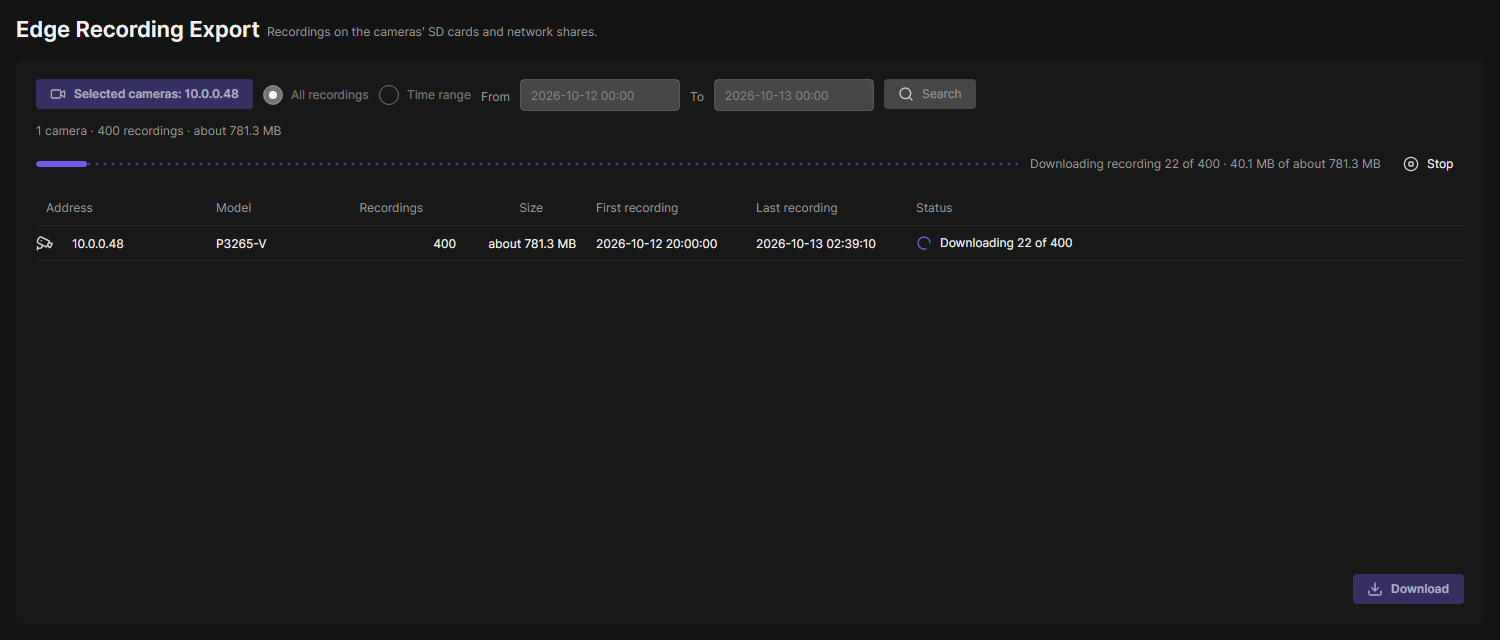
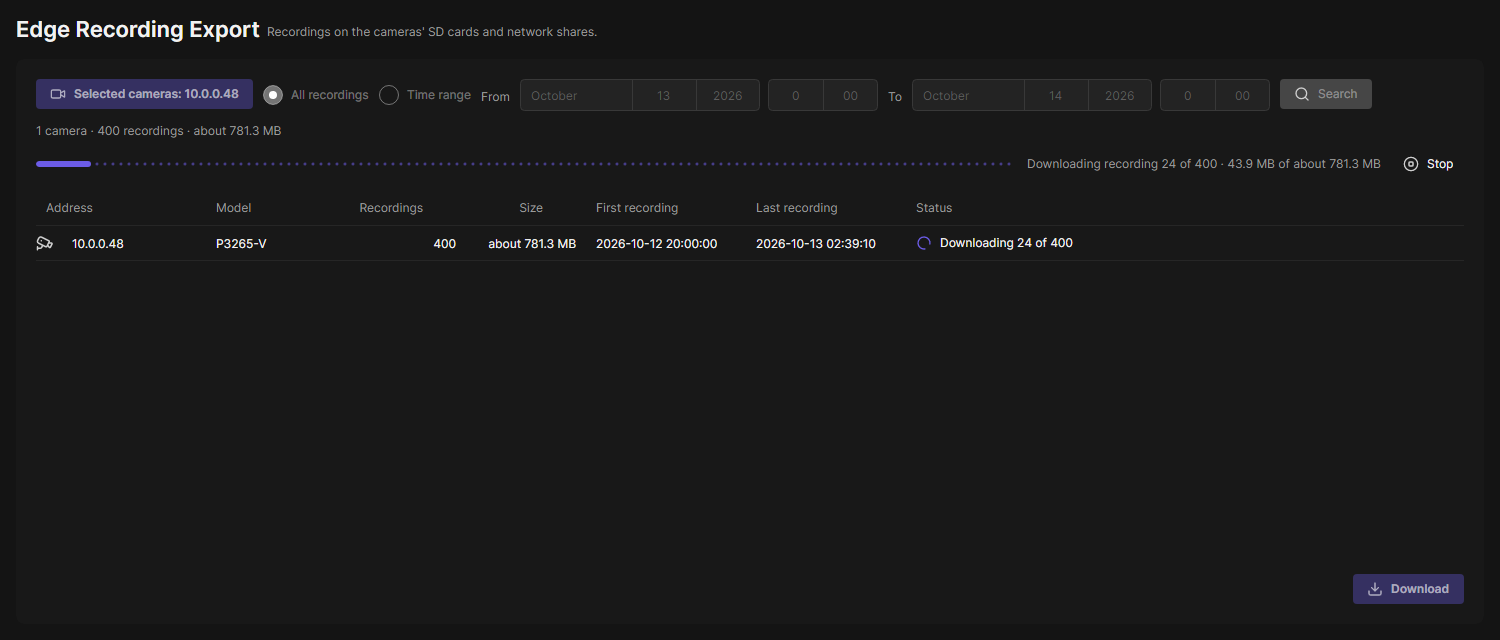
feat(edge-recording-export): date and time pickers for the range
Claude-Session: https://claude.ai/code/session_01DxqjaJMjAJLyCUSTpPxG58

diff --git a/plugins/Oadm.Plugins.EdgeRecordingExport.Client/EdgeRecordingViewModel.cs b/plugins/Oadm.Plugins.EdgeRecordingExport.Client/EdgeRecordingViewModel.cs
@@ -36,12 +36,14 @@ public sealed partial class EdgeRecordingViewModel : ValidatingViewModel, IDispo
     {
         _ctx = ctx ?? throw new ArgumentNullException(nameof(ctx));
         _ui = SynchronizationContext.Current;
-        var now = DateTime.Now;
-        StartText = now.Date.ToString(EdgeRecordingFormat.InputFormat, CultureInfo.InvariantCulture);
-        StopText = now.Date.AddDays(1).ToString(EdgeRecordingFormat.InputFormat, CultureInfo.InvariantCulture);
+        var today = new DateTimeOffset(DateTime.Today);
+        StartDate = today;
+        StartTime = TimeSpan.Zero;
+        StopDate = today.AddDays(1);
+        StopTime = TimeSpan.Zero;
         Validation
-            .Rule(nameof(StartText), () => AllRecordings ? null : EdgeRecordingFormat.ParseLocal(StartText) is null ? "Enter the start as yyyy-mm-dd hh:mm." : null)
-            .Rule(nameof(StopText), StopError);
+            .Rule(nameof(StartDate), StartError)
+            .Rule(nameof(StopDate), StopError);
         Validation.Validate();
         _ctx.PermissionsChanged += OnPermissionsChanged;
     }
@@ -69,11 +71,34 @@ public sealed partial class EdgeRecordingViewModel : ValidatingViewModel, IDispo
         set => AllRecordings = !value;
     }
 
+    /// <summary>The start day (date picker; the time of day comes from <see cref="StartTime"/>).</summary>
     [ObservableProperty]
-    public partial string StartText { get; set; }
+    public partial DateTimeOffset? StartDate { get; set; }
+
+    /// <summary>The start time of day (time picker, 24 hours).</summary>
+    [ObservableProperty]
+    public partial TimeSpan? StartTime { get; set; }
 
     [ObservableProperty]
-    public partial string StopText { get; set; }
+    public partial DateTimeOffset? StopDate { get; set; }
+
+    [ObservableProperty]
+    public partial TimeSpan? StopTime { get; set; }
+
+    /// <summary>The start in this computer's time, as UTC; null while a part is missing.</summary>
+    public DateTimeOffset? RangeStart => EdgeRecordingFormat.Combine(StartDate, StartTime);
+
+    public DateTimeOffset? RangeStop => EdgeRecordingFormat.Combine(StopDate, StopTime);
+
+    /// <summary>The visible error of the From row (below its pickers).</summary>
+    public string? StartErrorText => ErrorOf(nameof(StartDate));
+
+    public string? StopErrorText => ErrorOf(nameof(StopDate));
+
+    // A time picker belongs to the date picker of its row: the row's error shows once either was changed.
+    partial void OnStartTimeChanged(TimeSpan? value) => Validation.Touch(nameof(StartDate));
+
+    partial void OnStopTimeChanged(TimeSpan? value) => Validation.Touch(nameof(StopDate));
 
     [ObservableProperty]
     [NotifyPropertyChangedFor(nameof(IsIdle), nameof(IsBusy))]
@@ -165,7 +190,7 @@ public sealed partial class EdgeRecordingViewModel : ValidatingViewModel, IDispo
     [RelayCommand]
     private async Task SearchAsync()
     {
-        Validation.ShowAll(nameof(StartText), nameof(StopText));
+        Validation.ShowAll(nameof(StartDate), nameof(StopDate));
         if (!CanSearch)
         {
             return;
@@ -178,8 +203,8 @@ public sealed partial class EdgeRecordingViewModel : ValidatingViewModel, IDispo
             return;
         }
 
-        var start = AllRecordings ? null : EdgeRecordingFormat.ParseLocal(StartText);
-        var stop = AllRecordings ? null : EdgeRecordingFormat.ParseLocal(StopText);
+        var start = AllRecordings ? null : RangeStart;
+        var stop = AllRecordings ? null : RangeStop;
         var rows = cameras.Select(d => new CameraRowViewModel(d)).OrderBy(r => r.AddressSortKey, StringComparer.Ordinal).ToList();
         Rows.ReplaceAll(rows);
         OnPropertyChanged(nameof(ShowEmpty));
@@ -344,6 +369,8 @@ public sealed partial class EdgeRecordingViewModel : ValidatingViewModel, IDispo
     protected override void OnValidationChanged()
     {
         base.OnValidationChanged();
+        OnPropertyChanged(nameof(StartErrorText));
+        OnPropertyChanged(nameof(StopErrorText));
         RaiseCommands();
     }
 
@@ -456,6 +483,9 @@ public sealed partial class EdgeRecordingViewModel : ValidatingViewModel, IDispo
         SummaryText = text;
     }
 
+    private string? StartError() =>
+        AllRecordings ? null : StartDate is null ? "Choose the start date." : StartTime is null ? "Choose the start time." : null;
+
     private string? StopError()
     {
         if (AllRecordings)
@@ -463,12 +493,12 @@ public sealed partial class EdgeRecordingViewModel : ValidatingViewModel, IDispo
             return null;
         }
 
-        if (EdgeRecordingFormat.ParseLocal(StopText) is not { } stop)
+        if (StopDate is null || StopTime is null)
         {
-            return "Enter the stop as yyyy-mm-dd hh:mm.";
+            return StopDate is null ? "Choose the stop date." : "Choose the stop time.";
         }
 
-        return EdgeRecordingFormat.ParseLocal(StartText) is { } start && start >= stop ? "The stop must be after the start." : null;
+        return RangeStart is { } start && RangeStop is { } stop && start >= stop ? "The stop must be after the start." : null;
     }
 
     private string? SingleAddress() =>

diff --git a/tests/Oadm.Plugins.EdgeRecordingExport.Tests/ViewModelTests.cs b/tests/Oadm.Plugins.EdgeRecordingExport.Tests/ViewModelTests.cs
@@ -51,14 +51,16 @@ public sealed class ViewModelTests
     {
         var (rig, vm) = Page();
         vm.SetChoice(DeviceChoice.AllDevices);
-        vm.StartText = "2026-10-12 08:00";
-        vm.StopText = "2026-10-12 07:00";
-        Assert.Equal("The stop must be after the start.", vm.ErrorOf(nameof(vm.StopText)));
-        vm.StopText = "tomorrow";
-        Assert.Equal("Enter the stop as yyyy-mm-dd hh:mm.", vm.ErrorOf(nameof(vm.StopText)));
+        vm.StartDate = new DateTime(2026, 10, 12);
+        vm.StartTime = TimeSpan.FromHours(8);
+        vm.StopDate = new DateTime(2026, 10, 12);
+        vm.StopTime = TimeSpan.FromHours(7); // the time picker shows the error of its row
+        Assert.Equal("The stop must be after the start.", vm.StopErrorText);
+        vm.StopDate = null;
+        Assert.Equal("Choose the stop date.", vm.StopErrorText);
         Assert.False(vm.CanSearch);
         vm.AllRecordings = true;
-        Assert.Null(vm.ErrorOf(nameof(vm.StopText)));
+        Assert.Null(vm.StopErrorText);
         Assert.True(vm.CanSearch);
         Assert.Equal("Selected cameras: All", vm.CamerasText);
         Assert.Empty(rig.Devices.Items);
@@ -192,8 +194,8 @@ public sealed class ViewModelTests
     public void Sizes_and_times_read_well()
     {
         Assert.Equal(("about 48 GB", "Unknown", "512 bytes"), (EdgeRecordingFormat.AboutSize(48L * 1024 * 1024 * 1024), EdgeRecordingFormat.AboutSize(null), EdgeRecordingFormat.Size(512)));
-        var local = EdgeRecordingFormat.ParseLocal("2026-10-12 08:00");
+        var local = EdgeRecordingFormat.Combine(new DateTimeOffset(new DateTime(2026, 10, 12)), TimeSpan.FromHours(8));
         Assert.Equal(new DateTimeOffset(new DateTime(2026, 10, 12, 8, 0, 0, DateTimeKind.Local)), local);
-        Assert.Null(EdgeRecordingFormat.ParseLocal("12.10.2026"));
+        Assert.Null(EdgeRecordingFormat.Combine(null, TimeSpan.FromHours(8)));
     }
 }

diff --git a/plugins/Oadm.Plugins.EdgeRecordingExport.Client/EdgeRecordingFormat.cs b/plugins/Oadm.Plugins.EdgeRecordingExport.Client/EdgeRecordingFormat.cs
@@ -5,9 +5,6 @@ namespace Oadm.Plugins.EdgeRecordingExport.Client;
 /// <summary>The page's texts for sizes, counts and times (this computer's time).</summary>
 public static class EdgeRecordingFormat
 {
-    /// <summary>The format of the start and stop fields: "2026-10-12 08:00".</summary>
-    public const string InputFormat = "yyyy-MM-dd HH:mm";
-
     /// <summary>"1 recording", "340 recordings".</summary>
     public static string Count(int count, string noun) =>
         string.Create(CultureInfo.CurrentCulture, $"{count:N0} {noun}{(count == 1 ? string.Empty : "s")}");
@@ -36,17 +33,9 @@ public static class EdgeRecordingFormat
     public static string Local(DateTimeOffset time) =>
         time.ToLocalTime().ToString("yyyy-MM-dd HH:mm:ss", CultureInfo.InvariantCulture);
 
-    /// <summary>Reads "2026-10-12 08:00" (seconds optional) as this computer's time; null when it is not a time.</summary>
-    public static DateTimeOffset? ParseLocal(string? text)
-    {
-        if (string.IsNullOrWhiteSpace(text))
-        {
-            return null;
-        }
-
-        string[] formats = ["yyyy-MM-dd HH:mm", "yyyy-MM-dd H:mm", "yyyy-MM-dd HH:mm:ss", "yyyy-MM-dd H:mm:ss", "yyyy-MM-dd"];
-        return DateTime.TryParseExact(text.Trim(), formats, CultureInfo.InvariantCulture, DateTimeStyles.AssumeLocal, out var local)
-            ? new DateTimeOffset(local).ToUniversalTime()
+    /// <summary>A day of the date picker and a time of day of the time picker as this computer's time, in UTC; null when one is missing.</summary>
+    public static DateTimeOffset? Combine(DateTimeOffset? date, TimeSpan? time) =>
+        date is { } day && time is { } of
+            ? new DateTimeOffset(DateTime.SpecifyKind(day.Date + of, DateTimeKind.Local)).ToUniversalTime()
             : null;
-    }
 }

diff --git a/tests/Oadm.Plugins.EdgeRecordingExport.Tests/HeadlessTests.cs b/tests/Oadm.Plugins.EdgeRecordingExport.Tests/HeadlessTests.cs
@@ -44,8 +44,8 @@ public sealed class HeadlessTests
         Headless.Capture(window, "edge-recording-export-empty.png");
 
         vm.SetChoice(DeviceChoice.Devices([], ["Building A"]));
-        vm.StartText = "2026-10-12 00:00";
-        vm.StopText = "2026-10-13 00:00";
+        vm.StartDate = new DateTime(2026, 10, 12);
+        vm.StopDate = new DateTime(2026, 10, 13);
         await vm.SearchCommand.ExecuteAsync(null);
         Assert.True(await Headless.UntilAsync(() => vm.IsIdle && vm.Rows.Count == 5));
         Headless.Pump();
@@ -54,6 +54,8 @@ public sealed class HeadlessTests
         var grid = view.GetVisualDescendants().OfType<DataGrid>().Single();
         Assert.Equal(5, grid.ItemsSource!.Cast<object>().Count());
         Assert.Contains("Tag Building A", vm.CamerasText, StringComparison.Ordinal);
+        Assert.Equal(new DateTimeOffset(new DateTime(2026, 10, 12)), view.GetVisualDescendants().OfType<DatePicker>().Single(p => p.Name == "StartDatePicker").SelectedDate);
+        Assert.Equal(TimeSpan.Zero, view.GetVisualDescendants().OfType<TimePicker>().Single(p => p.Name == "StopTimePicker").SelectedTime);
         var download = view.GetVisualDescendants().OfType<Button>().Single(b => b.Name == "DownloadButton");
         Assert.True(download.IsEnabled);
         Assert.EndsWith(" recordings found", vm.Rows.Single(r => r.Device.Id == a.Id).StatusText, StringComparison.Ordinal);

diff --git a/tests/Oadm.Plugins.EdgeRecordingExport.Tests/EdgeRecordingHardwareTests.cs b/tests/Oadm.Plugins.EdgeRecordingExport.Tests/EdgeRecordingHardwareTests.cs
@@ -76,8 +76,10 @@ public sealed class EdgeRecordingHardwareTests
             };
             using var vm = new EdgeRecordingViewModel(new GrpcPageContext(api, devices))
             {
-                StartText = DateTime.Now.AddMinutes(-2).ToString(EdgeRecordingFormat.InputFormat, CultureInfo.InvariantCulture),
-                StopText = DateTime.Now.ToString(EdgeRecordingFormat.InputFormat, CultureInfo.InvariantCulture),
+                StartDate = DateTime.Today,
+                StartTime = DateTime.Now.AddMinutes(-2).TimeOfDay,
+                StopDate = DateTime.Today,
+                StopTime = DateTime.Now.AddMinutes(1).TimeOfDay,
                 PickFolder = () => Task.FromResult<string?>(folder.Path),
             };
             vm.SetChoice(DeviceChoice.AllDevices);

diff --git a/plugins/Oadm.Plugins.EdgeRecordingExport/README.md b/plugins/Oadm.Plugins.EdgeRecordingExport/README.md
@@ -9,7 +9,7 @@ downloads them to the client machine, one folder per camera.
 | Topic | Decision |
 |---|---|
 | Cameras | The shared device picker (`DevicePickerWindow.ShowChoiceAsync`, All, chosen devices and tags), listing video devices only; a tag means its video devices at the time of the search. |
-| Range | "All recordings" or From / To in this computer's time (`yyyy-mm-dd hh:mm`, errors below the fields), sent as UTC; the same moment for cameras in other time zones. |
+| Range | "All recordings" or From / To in this computer's time (Avalonia's `DatePicker` + `TimePicker`, 24 hours, styled in the theme; the row's error below both pickers through `FormField.Error`), sent as UTC; the same moment for cameras in other time zones. |
 | Search | One `search` call per camera from the page, 4 cameras at a time; the server keeps no state. Each row: recordings found, estimated size, first and last recording, status. A total line "12 cameras · 340 recordings · about 48 GB · 1 not searched". |
 | Cut | The camera cuts the listed start and stop of every recording to the range; the export uses exactly those times (from the key frame before the start). "All recordings" exports whole recordings; one that still records ends at the moment of the request. |
 | Size | `properties.cgi` per recording estimates its export in kB. With many recordings (10 s clips make 8,640 a day) only 40 spread over the list are asked and the rest is extrapolated by duration ("about"). No estimate at all = "Unknown" (progress then by file count). |
